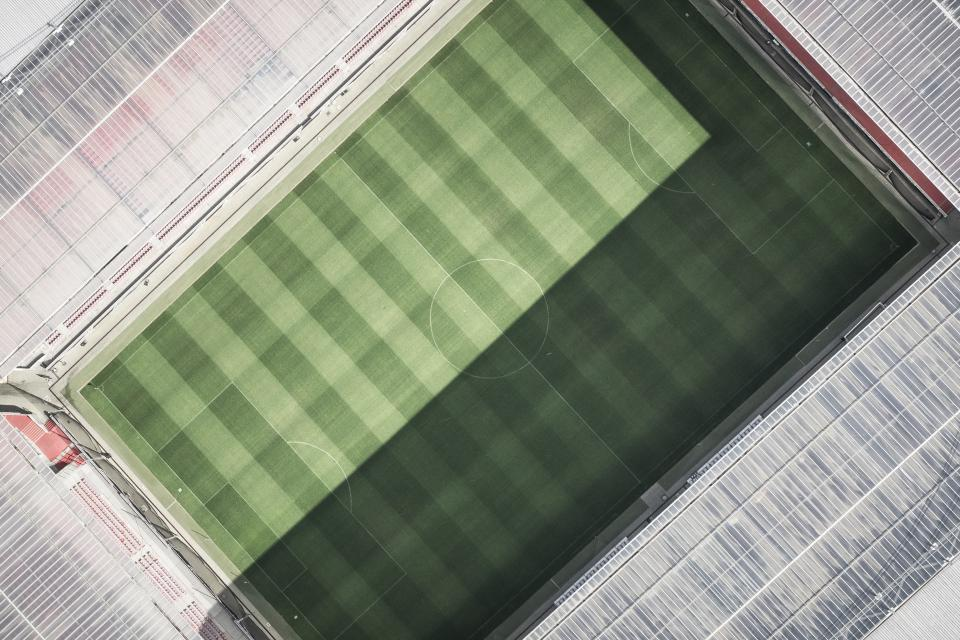
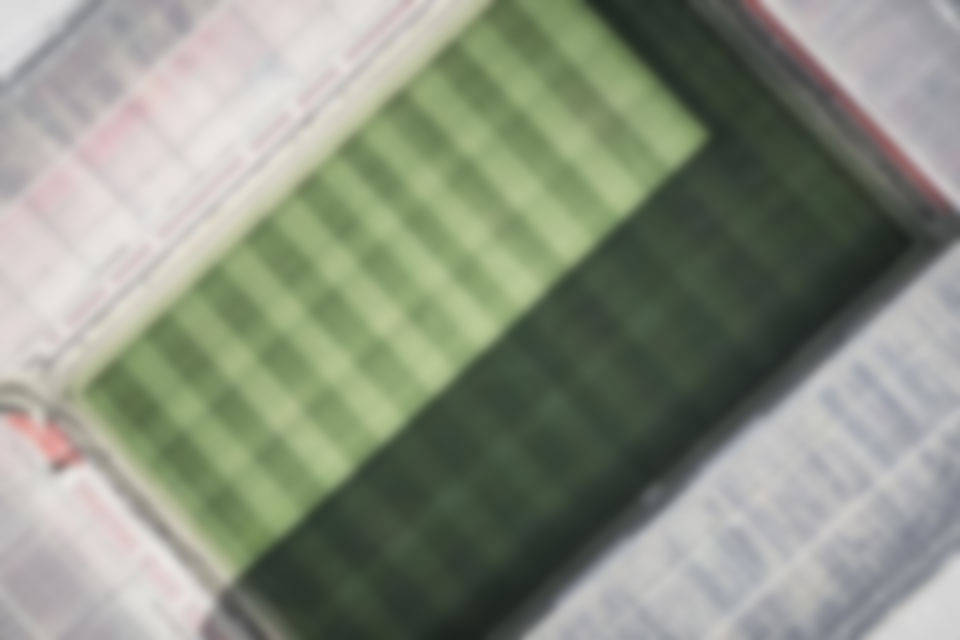
added player detail page

diff --git a/solution/src/app/player/_player.scss b/solution/src/app/player/_player.scss
@@ -32,10 +32,6 @@
   }
 
   .header {
-    background-position: 0 50%;
-    background-image: url("https://snap-photos.s3.amazonaws.com/img-thumbs/960w/PS9F6BF99L.jpg");
-    background-size: cover;
-    height: 400px;
     overflow: hidden;
   }
 
@@ -78,6 +74,7 @@
 
   .details__icon {
     display: inline-block;
+    width: 30px;
   }
 
   .details__text {
@@ -183,6 +180,10 @@
   .fixture__logo--away {
     @extend %fixture__logo;
     text-align: left;
+  }
+
+  .fixture__logo-image {
+    max-width: 50px;
   }
 
 }
